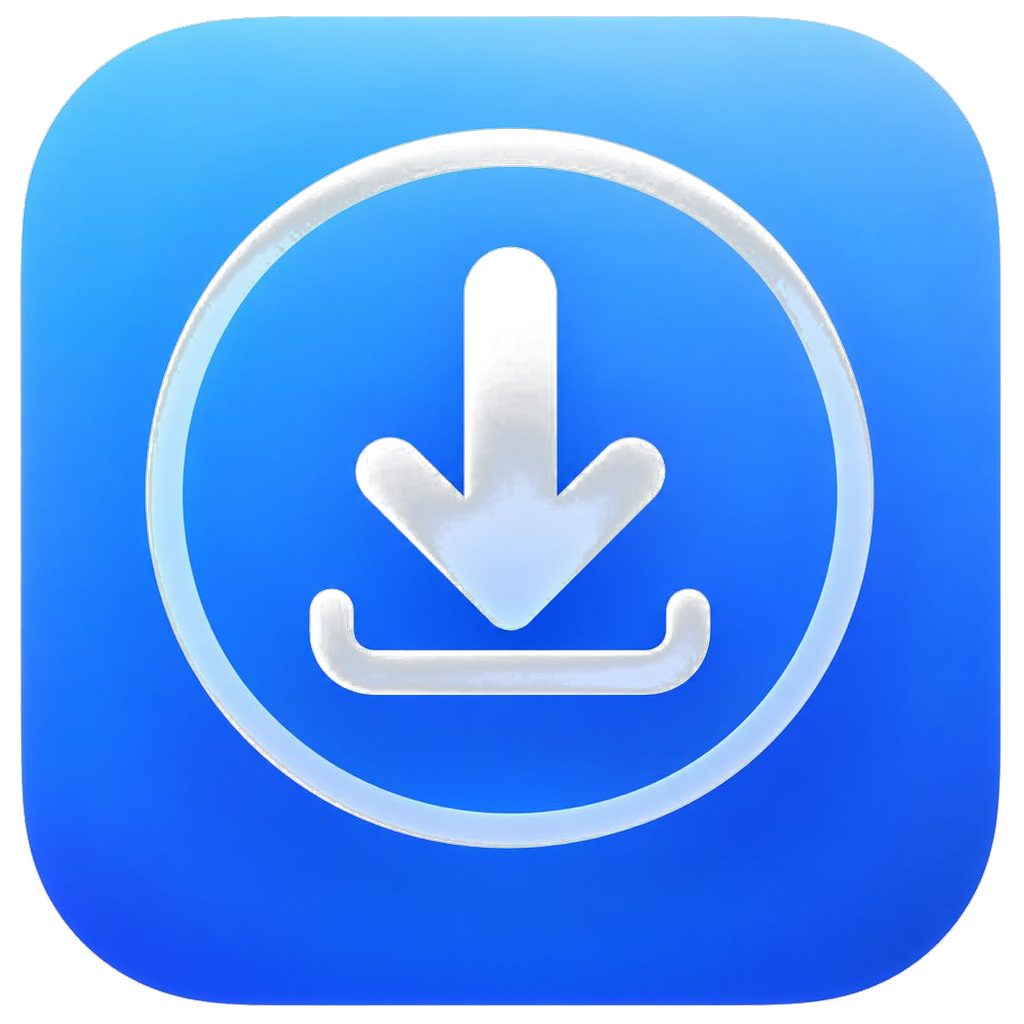
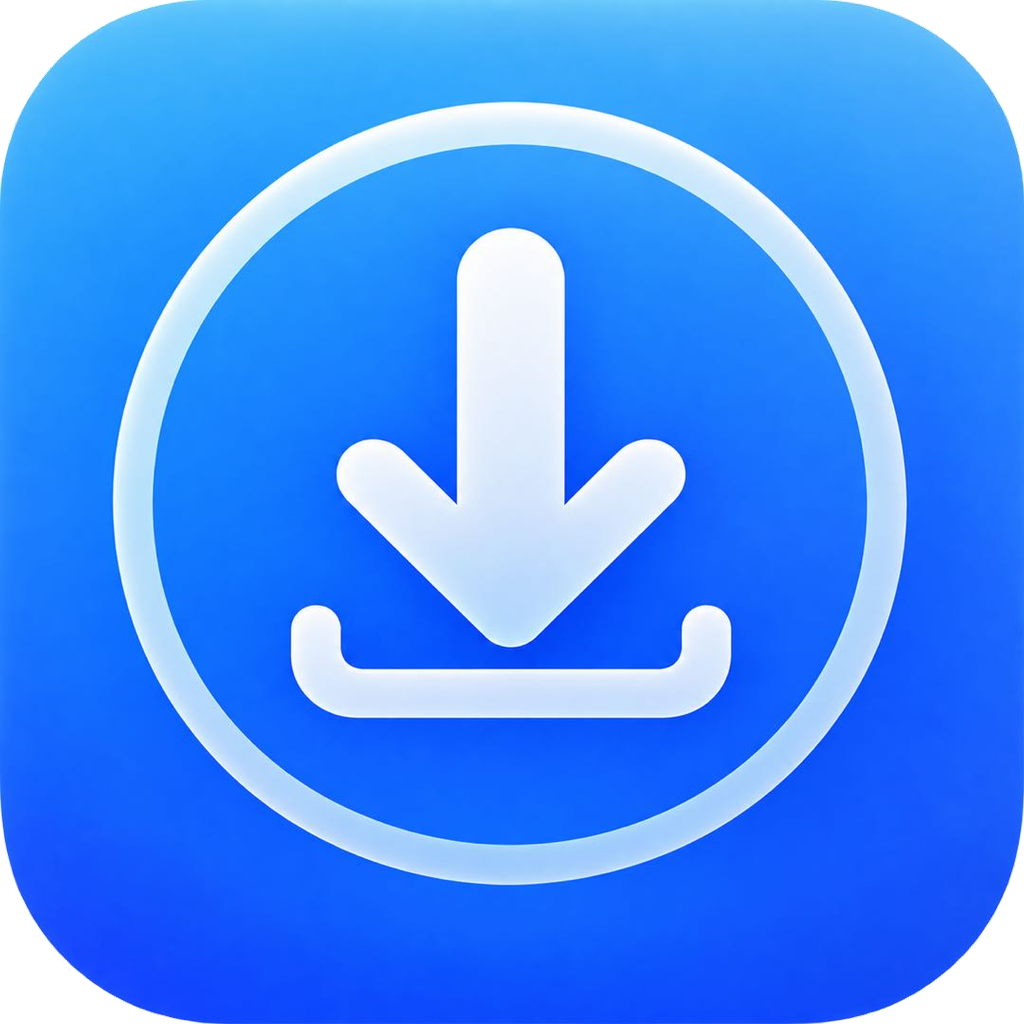
feat(assets): 更新最新应用图标与静态资源

diff --git a/public/login.html b/public/login.html
@@ -23,13 +23,13 @@
     <!-- Third-party libraries are bundled locally (no CDN dependency) -->
     <!-- Modular Stylesheet -->
     <!-- Modular Granular Stylesheets -->
-    <link rel="stylesheet" href="css/variables.css?v=1787024168010">
-    <link rel="stylesheet" href="css/base.css?v=1787024168010">
-    <link rel="stylesheet" href="css/layout.css?v=1787024168010">
-    <link rel="stylesheet" href="css/components.css?v=1787024168010">
-    <link rel="stylesheet" href="css/torrents.css?v=1787024168010">
-    <link rel="stylesheet" href="css/dock.css?v=1787024168010">
-    <link rel="stylesheet" href="css/modal.css?v=1787024168010">
+    <link rel="stylesheet" href="css/variables.css?v=1787028192292">
+    <link rel="stylesheet" href="css/base.css?v=1787028192292">
+    <link rel="stylesheet" href="css/layout.css?v=1787028192292">
+    <link rel="stylesheet" href="css/components.css?v=1787028192292">
+    <link rel="stylesheet" href="css/torrents.css?v=1787028192292">
+    <link rel="stylesheet" href="css/dock.css?v=1787028192292">
+    <link rel="stylesheet" href="css/modal.css?v=1787028192292">
 </head>
 <body>
 <!-- Global Toast Container -->
@@ -1123,19 +1123,19 @@
 </div>
 
     <!-- Modular Application Scripts -->
-    <script src="js/vendor_jquery.min.js?v=1787024168010"></script>
-    <script src="js/vendor_chart.umd.min.js?v=1787024168010"></script>
-    <script src="js/i18n.js?v=1787024168010"></script>
-    <script src="js/constants.js?v=1787024168010"></script>
-    <script src="js/state.js?v=1787024168010"></script>
-    <script src="js/utils.js?v=1787024168010"></script>
-    <script src="js/api.js?v=1787024168010"></script>
-    <script src="js/chart.js?v=1787024168010"></script>
-    <script src="js/torrents.js?v=1787024168010"></script>
-    <script src="js/search.js?v=1787024168010"></script>
-    <script src="js/rss.js?v=1787024168010"></script>
-    <script src="js/system.js?v=1787024168010"></script>
-    <script src="js/ui.js?v=1787024168010"></script>
-    <script src="js/app.js?v=1787024168010"></script>
+    <script src="js/vendor_jquery.min.js?v=1787028192292"></script>
+    <script src="js/vendor_chart.umd.min.js?v=1787028192292"></script>
+    <script src="js/i18n.js?v=1787028192292"></script>
+    <script src="js/constants.js?v=1787028192292"></script>
+    <script src="js/state.js?v=1787028192292"></script>
+    <script src="js/utils.js?v=1787028192292"></script>
+    <script src="js/api.js?v=1787028192292"></script>
+    <script src="js/chart.js?v=1787028192292"></script>
+    <script src="js/torrents.js?v=1787028192292"></script>
+    <script src="js/search.js?v=1787028192292"></script>
+    <script src="js/rss.js?v=1787028192292"></script>
+    <script src="js/system.js?v=1787028192292"></script>
+    <script src="js/ui.js?v=1787028192292"></script>
+    <script src="js/app.js?v=1787028192292"></script>
 </body>
 </html>
